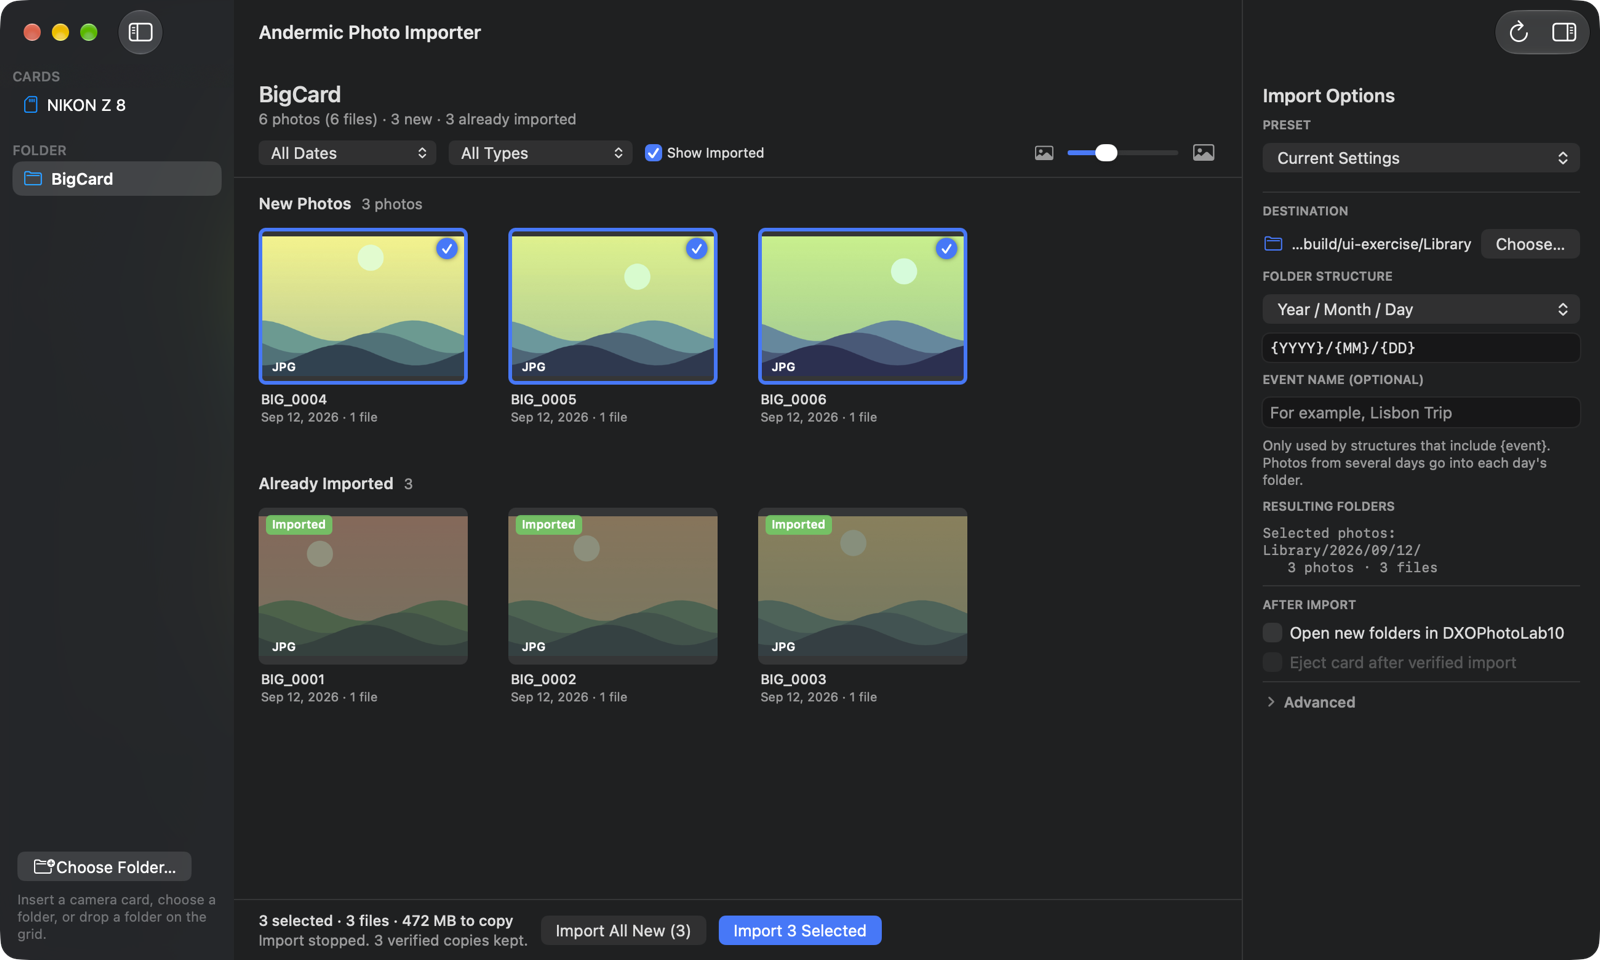
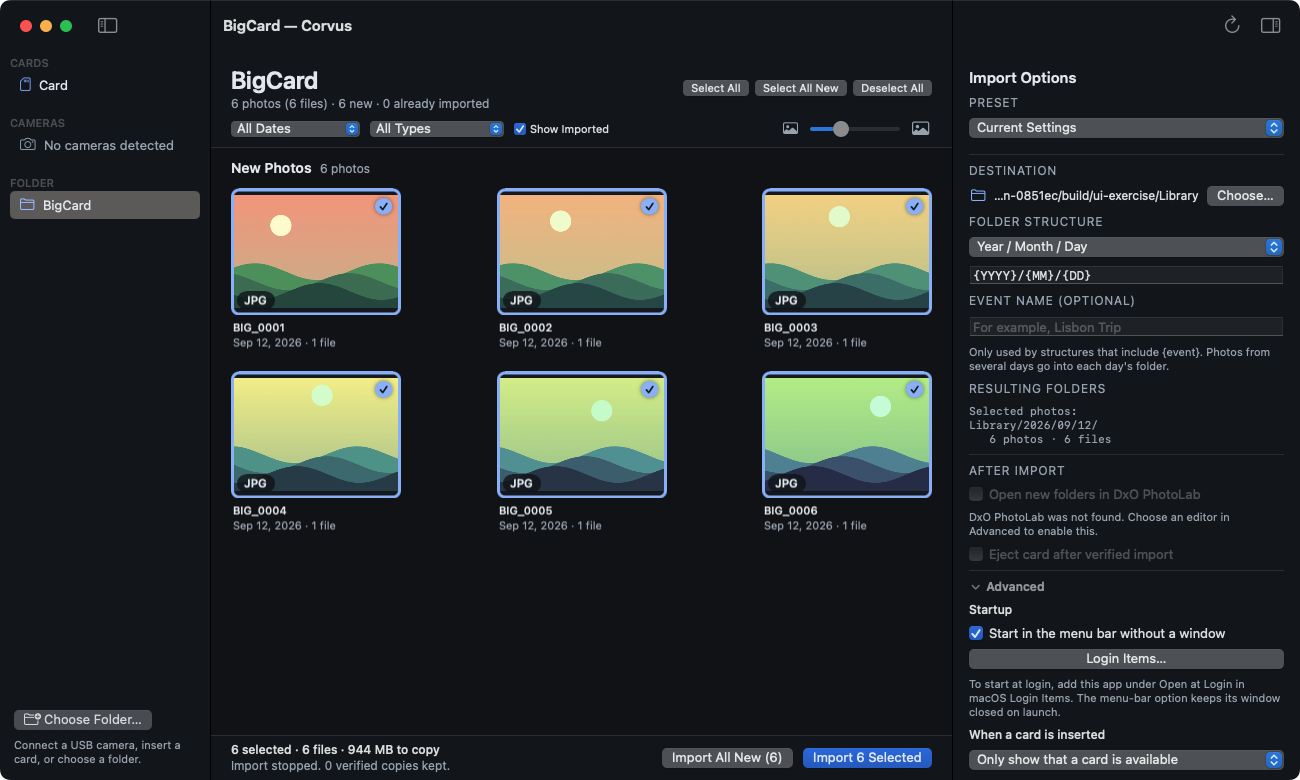
Refresh screenshots and record the GUI pass
Screenshots now show the Corvus name and SENEX design, from a clean GUI exercise run with synthetic fixtures. The audit is corrected: the blocker was the Screen Recording permission as well as the locked screen, and window-open idle is now measured.

diff --git a/docs/audit/CLEANUP-2026-10.md b/docs/audit/CLEANUP-2026-10.md
@@ -66,18 +66,18 @@ The audit kept no caches. The 3.8 GB scan fixtures, the coverage build, the idle
   | `DuplicateVerificationCache.swift` | 99.2% |
 
 - **Critical path with no test:** the production settings folder and the order of legacy folders after the rename. Fixed in `227201c`. What remains uncovered is `MetadataHelper.bundled()`, which the package verification exercises.
-- **App layer:** selection, filters, ejection eligibility and window lifecycle are covered only by the GUI exercise. That exercise **could not run** on this audit, because window capture fails while the screen is locked (`CGSSessionScreenIsLocked = true`). Rerun it once the Mac is unlocked.
+- **App layer:** selection, filters, ejection eligibility and window lifecycle are covered only by the GUI exercise. It passed on 2026-11-01 with no failures and 89 files matched byte for byte. It was blocked during the audit because `screencapture` needs Screen Recording permission, which the host app lacks on this Mac, and because a locked screen stops the app coming to the front. The test app now captures its own windows (`fcbeb05`).
 - **Mocks:** the camera tests use an injectable transport rather than a camera. The owner's rules allow this, because real cameras are off-limits without authorization.
 
 ## 6. Docs
 
-- **README commands:** `./test.sh`, `./build.sh`, `./scripts/package.sh`, `./scripts/verify-package.sh` and `./scripts/performance-exercise.sh` were run and pass. `./scripts/ui-exercise.sh` is blocked by the locked screen.
+- **README commands:** `./test.sh`, `./build.sh`, `./scripts/package.sh`, `./scripts/verify-package.sh`, `./scripts/performance-exercise.sh` and `./scripts/ui-exercise.sh` were run and pass.
 - **Links:** 24 Markdown files, 0 broken relative links (checked by script; lychee is not installed, so external links were not checked).
 - **ADRs:** 0001–0011 all carry a status line. ADR-0001's product line now records the rename.
 - **CHANGELOG:** ended at 0.1.0-alpha.2 (Oct 5), missing the menu-bar lifecycle, USB camera, memory, cache and rename work. Fixed in `c6b74be`.
 - **ROADMAP:** still said "accepted Aperture A branding" and omitted the shipped USB camera and cache work. Fixed in `c6b74be`.
 - **Undocumented inputs:** `BUILD_NUMBER`, `-CorvusSettingsDirectory` and `-CorvusUIScript` were read but documented nowhere. Fixed in `11f8a85`.
-- **README screenshots:** they still show the pre-SENEX look, and will be refreshed from the next GUI exercise.
+- **README screenshots:** refreshed from the 2026-11-01 GUI exercise.
 - **AGENTS.md and CLAUDE.md:** match the repo. `CLAUDE.md` imports `AGENTS.md`.
 
 ## 7. Scripts, config and CI
@@ -85,7 +85,7 @@ The audit kept no caches. The 3.8 GB scan fixtures, the coverage build, the idle
 - **Shell syntax:** all shell scripts pass `bash -n` (shellcheck is not installed).
 - **Environment variables:** every one read by a script is now documented.
 - **Performance exercise:** broken by the theme change. Fixed in `7a2dbde`.
-- **UI exercise:** left about 1.8 GB of fixtures after each pass. It now keeps only its logs after a pass (`344b221`); a failed run still keeps everything for inspection. This change is not yet exercised, for the same locked-screen reason.
+- **UI exercise:** left about 1.8 GB of fixtures after each pass. It now keeps only its logs after a pass (`344b221`; 40 KB measured); a failed run still keeps everything for inspection.
 - **Workflows:** both are live (`ci.yml` on pushes and PRs, `release.yml` on tags). Neither is dead.
 
 ## 8. Complexity hotspots (not refactored)
@@ -129,7 +129,7 @@ Measured on this Mac Pro with the current build (optimized, synthetic data):
 | Workload | Wall | CPU | Peak memory |
 |---|---|---|---|
 | Menu-bar idle, no window, 60 s (`top`, 13 samples) | — | 0.00 s, 0.0 %, 0 idle wakeups, 3 threads | 20 MB footprint, 47 MB RSS |
-| Window-open idle | not measurable while the screen is locked | | |
+| Window-open idle, no source, 60 s (`top`, 12 samples) | — | 0.00 s, 0.0 %, 0 idle wakeups, 3 threads | 24 MB footprint, 54 MB RSS |
 | Cold scan: 24 × 80 MB duplicates, card and library on one SSD (3.8 GB hashed, serial) | 10.07 s | 9.90 s | 27.5 MiB |
 | Warm scan of the same, 24 cache hits | 0.25 s | 0.07 s | 7.1 MiB |
 | `digest` 1 GiB / `paired-digest` 1 GiB | 2.62 s / 1.31 s | — | 17.0 / 16.0 MB |
@@ -166,7 +166,7 @@ Measured on this Mac Pro with the current build (optimized, synthetic data):
   - Badges always pair colour with text.
   - Section labels expose sentence-case names.
   - The new progress bar reports its role and value.
-  - VoiceOver was not run: the screen was locked.
+  - VoiceOver was not run.
 - **macOS conventions:**
   - Native controls keep the system accent, a known seam: AppKit has no app-wide accent override without an asset catalog.
   - **Settings… (⌘,) opens the main window's Import Options panel** rather than a Settings window. That is unusual for a Mac app but deliberate in ADR-0005's single-window design. Leave as is unless the owner wants a window.
@@ -177,7 +177,7 @@ Measured on this Mac Pro with the current build (optimized, synthetic data):
 ## 13. Roadmap
 
 - **Next, in order:**
-  1. Run the GUI exercise and the physical card reinsertion on the current build (both blocked by the locked screen), and refresh the README screenshots.
+  1. Run the physical card reinsertion on the current build.
   2. Install the renamed app in place of the old one (README, "Moving from Andermic Photo Importer").
   3. Push this branch and open a PR.
   4. Complete the qualification list in `docs/ROADMAP.md` (real-camera fixtures, older macOS, clean install, Developer ID and notarization).
@@ -190,10 +190,10 @@ Measured on this Mac Pro with the current build (optimized, synthetic data):
 Each comes with a recommendation; the PM sends them one at a time.
 
 1. **Bundle ID:** answered. The owner registered senexapps.com, and Corvus now uses `com.senexapps.corvus`, matching Pictor.
-2. **Push:** push `claude/corvus-pictor-design-0851ec` and open a PR to `main`? Recommendation: yes, after the GUI exercise passes.
+2. **Push and PRs:** the owner approved pushing the branch for a CI build. Opening the PRs is asked separately.
 3. **Background scan heat:** handed over. The owner's Codex session (branch `codex/sd-card-metadata-cache`) is working on import performance, so this branch changes no scan code. The options below go to that work. (a) run scans the user didn't start (background card insertion, launch scans) at `.utility`; (b) confirm duplicates by comparing the two files byte for byte instead of hashing both, which avoids most SHA-256 work; (c) leave as is. Recommendation: first confirm whether the fans still spin with the current build, which has the cache; if they do, (a). (b) changes import safety and needs its own ADR.
 4. **Disk space in the main checkout:** answered. `build/ui-exercise` and `build/module-cache` were deleted (`build/` went from 2.4 GB to 171 MB). The app backup was copied to `/Volumes/storage/backup/Development/corvus/installed-backup-20261005-185204/`, its 1,791 files checked by SHA-256, and the local copy moved to the Trash.
 5. **ExifTool 13.59 → 13.60:** answered. The owner chose the upgrade. Both are development releases, and the latest production release (13.55) lacks 13.59's security update. 13.60 is pinned by the SHA-256 published on exiftool.org, whose download link points to SourceForge.
 6. **Merged branches:** answered. Both were deleted locally and on GitHub; their trees matched PRs #1 and #2. Tips: `feature/core-first-release` 280974e549da, `feature/menu-bar-lifecycle` 472d491f7ab9.
-7. **Split `MainWindow.swift` and `ImportCore.swift`** to meet the 300-line rule, as a separate refactor after this branch lands? Recommendation: yes, one file per PR with the GUI exercise.
+7. **Split `MainWindow.swift` and `ImportCore.swift`:** the owner chose one file per PR. `MainWindow.swift` goes first, and `ImportCore.swift` waits for the Codex import branch to merge.
 8. **Formatter:** answered. The owner approved the house-style `.swift-format`. The formatting-only commit `08c1b1c` is listed in `.git-blame-ignore-revs`, and CI runs `swift-format lint --strict` (`c34915e`).

diff --git a/docs/VALIDATION.md b/docs/VALIDATION.md
@@ -205,3 +205,10 @@ The metadata stage of a warm real-card scan remained a measured bottleneck after
 - Apple silicon build, UI-enabled source typechecking, Intel source typechecking, six-mode bounded-memory exercise, package creation, and extracted-package verification pass. Hosted CI and Intel runtime execution remain unrun for this branch.
 - With owner-authorized read-only access to the real card, the new engine enriched the existing hash-only cache in 26.94 seconds. A subsequent warmed engine probe took 2.05 seconds, reused 754 native dates and matching-copy hints, found the same 43 new groups among 797, read zero full-hash bytes, and reduced logical reads from 361.40 MB to 163.74 MB. No originals were imported, edited, or ejected. OS caches were warm; this is not a physical reinsertion or complete AppKit measurement.
 - After unlock, the complete GUI exercise passed, including 24 native-date hits, zero on Full Verification, reuse afterward, and exactly 89 byte-matching imported fixture files. Both installed copies were updated with verified backups, unchanged settings, preserved outer app-directory identities, and matching installed/dist/extracted-package executables. A single-process launch of that build on the real card completed its preview in 18.4 seconds, reusing 754 dates and matches with 163.74 MB logical reads. This is an actual app startup observation, distinct from the 2.05-second warmed engine probe. The owner then initiated an import and stopped it during the omitted-match full-read preflight; ADR-0013 addresses that separate bottleneck.
+
+
+## Corvus design GUI pass (2026-11-01)
+
+The complete `./scripts/ui-exercise.sh` passed with no failures on an Intel Mac Pro running macOS 15.7.4, on the renamed app with the SENEX family design. All 89 imported files matched a synthetic source byte for byte, and no real card or camera was attached. Screenshots in [docs/screenshots](screenshots/) come from this run at 1× (1300 × 780), because this Mac's display is not Retina.
+
+The test app now saves its own windows, because `screencapture` needs Screen Recording permission that the exercise's host app does not have here. A locked screen still stops the exercise: the app cannot come to the front. VoiceOver and a physical card reinsertion were not run.
